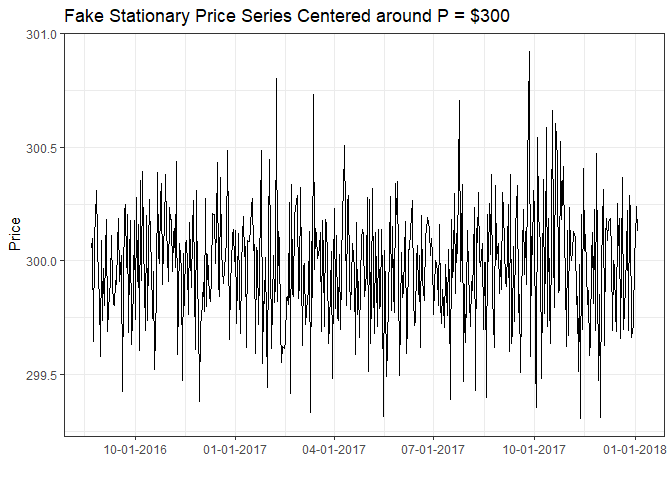
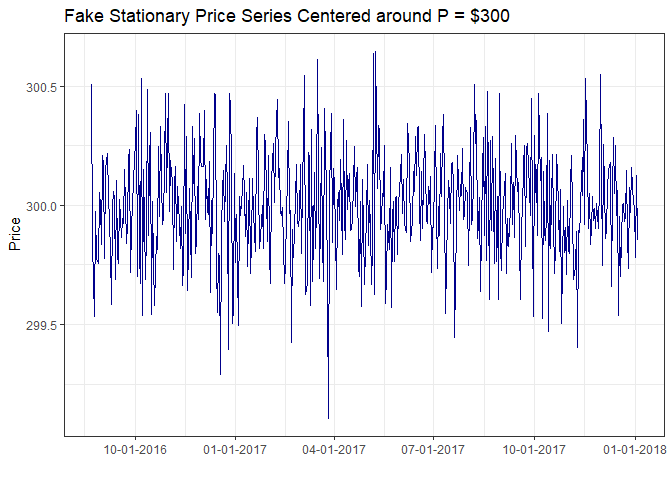
g

diff --git a/2018-01-02-Time-Series-Explainer.html b/2018-01-02-Time-Series-Explainer.html
@@ -127,7 +127,7 @@ $(document).ready(function () {
 -->
 <p>Nearly all of my research can be described as applied time-series econometrics. When graduate students approach me hoping to start research in this area, they usually have to start from ground zero in terms of their time-series statistical training. Even incoming graduate students well trained in econometrics often have seen little, if any, treatment of time-series techniques because first and even second econometrics courses focus most of their time on cross-sectional and panel techniques.</p>
 <p>For the graduate student aspiring to do a (Ph.D.) dissertation or (M.S.) thesis in price analysis this is a real bummer because it often will be 6 to 18 months before they can work a formal time series econometrics course into their schedule, severely delaying their research unless they can learn a lot on their own.</p>
-<p>This post is for my current and future new-ish graduate students who will soon start a research program in applied price analysis or finance, but feel overwhelmed and under-prepared in the way of time-series econometrics. I’m not going to cover the actual statistics, I link to resources for how you can start to learn more on your own at the bottom, but in this post I will give a 30,000 ft view of ‘The Game’ that is going on in applied time-series analysis. It follows a fairly standard template.</p>
+<p>This post is for my current and future new-ish graduate students who will soon start a research program in applied price analysis or finance, but feel overwhelmed and under-prepared in the way of time-series econometrics. It is also accessible to anyone who has had a basic class in statistics. I’m not going to cover how to use the actual statistics, I link to resources for how you can start to learn more on your own at the bottom, but in this post I will give a 30,000 ft view of ‘The Game’ that is going on in applied time-series analysis. It follows a fairly standard template.</p>
 <div id="the-game" class="section level1">
 <h1>The Game</h1>
 <p>When you start a time-series class or read a paper using time-series analyisis for the first time you are greeted by a barage of new statistical tests and terms like, “Augmented Dickey-Fuller Test”, “Johansen’s Cointegration Test”, “AR(p)”, “GARCH(p,q)”, “Vector Autoregression (VAR)” and “Vector Error Correction Model (VECM)” to name a few.</p>
@@ -139,32 +139,19 @@ $(document).ready(function () {
 <li><p>Adjusting for Residuals that may not be Perfect “White Noise”</p></li>
 </ul>
 <p>Each of these can be thought of as a model selection exercise, helping you to pick witch statistical model is the right choice for your research question. After a while you will have an intuition about which model to use on which kind of data; even then you have to go through this process in every research project to convince your reader that you did, in fact, choose a suitible model for the question at hand.</p>
-<p>If you are new to this you don’t have any intuition about what the right model is for your question, but going through these three issues will lead you there anyway.</p>
+<p>If you are new to this you probably don’t have any intuition about what the right model is for your question, but going through these three issues will lead you there anyway.</p>
 <div id="stationarity-testing" class="section level3">
 <h3>Stationarity Testing</h3>
-<p>The first thing you have to establish in any time-series analysis is whether your data are stationary or not because it essentially determines whether you should try to model levels of the data or first differences of the data. Let me explain more.</p>
-<p>In the figure below I simulate and plot a stationary series. Notice that it is basically flat, with random ups and downs.</p>
-<pre class="r"><code>library(ggplot2)
-library(xts)
-
-# Making the fake price series
-## Dates
-end     &lt;- Sys.Date()
-start   &lt;- end - 499 
-t       &lt;- as.Date(start:end)
-
-## 500 fake prices from a normal distribution
-x       &lt;- rnorm(n = 500, mean = 300, sd = .25)
-
-## Put dates and prices together in a time-series object
-p       &lt;- as.xts(x, order.by = t)
-
-# Plot It
-autoplot(p, geom = 'line') + 
-  labs(title = &quot;Fake Stationary Price Series Centered around P = $300&quot;, x = &quot;&quot;, y = &quot;Price&quot;) + 
-  theme_bw() + 
-  scale_x_date(date_labels = &quot;%m-%d-%Y&quot;, date_breaks = &quot;3 month&quot;)</code></pre>
[1 lines of base64/hex data omitted]
+<p>The first thing you have to establish in any time-series analysis is whether your data are stationary or not because it essentially determines whether you should try to model levels of the data or first differences of the data.</p>
+<p>If you want to see the R code that generates any of the following stuff, visit <a href="https://github.com/mindymallory/BlogPosts/blob/master/2018-01-02-Time-Series-Explainer.Rmd">my Github repostory</a> that has the source code for this blog post.</p>
+<p><strong>Stationary Data</strong></p>
+<p>In the figure below I simulate and plot a stationary series. The series comes from 500 draws of a normal distribution with mean = 300 and standard deviation = 0.25. Notice that it is basically flat, with random ups and downs.</p>
+<p>That is basically what stationarity means, all the data come from a single probability distribution.</p>
[1 lines of base64/hex data omitted]
+<p>When you look at this plot it is not hard to imagine that it came from draws from a single probability distribution, namely:</p>
+<p><span class="math display">\[p_t \sim N(\mu = 300, \sigma = .25)\]</span></p>
+<p>We need our data to be stationary in order to be able to do statistical tests and modelling on it. So if the data is not stationary, we have to transform it so it is and do our analysis on the transformed variable. The next sub-section should explain why.</p>
+<p><strong>Non-Stationary or Unit Root Data</strong></p>
 <p>In the plot below I plot the S&amp;P 500 Index from 1990 to 2017. By visual inspection you should have a sense that this series is</p>
 </div>
 </div>

diff --git a/2018-01-02-Time-Series-Explainer.md b/2018-01-02-Time-Series-Explainer.md
@@ -14,7 +14,7 @@ Nearly all of my research can be described as applied time-series econometrics. 
 
 For the graduate student aspiring to do a (Ph.D.) dissertation or (M.S.) thesis in price analysis this is a real bummer because it often will be 6 to 18 months before they can work a formal time series econometrics course into their schedule, severely delaying their research unless they can learn a lot on their own. 
 
-This post is for my current and future new-ish graduate students who will soon start a research program in applied price analysis or finance, but feel overwhelmed and under-prepared in the way of time-series econometrics. I'm not going to cover the actual statistics, I link to resources for how you can start to learn more on your own at the bottom, but in this post I will give a 30,000 ft view of 'The Game' that is going on in applied time-series analysis. It follows a fairly standard template. 
+This post is for my current and future new-ish graduate students who will soon start a research program in applied price analysis or finance, but feel overwhelmed and under-prepared in the way of time-series econometrics. It is also accessible to anyone who has had a basic class in statistics. I'm not going to cover how to use the actual statistics, I link to resources for how you can start to learn more on your own at the bottom, but in this post I will give a 30,000 ft view of 'The Game' that is going on in applied time-series analysis. It follows a fairly standard template. 
 
 # The Game
 
@@ -32,39 +32,29 @@ Most introductory time-series econometric statistics and models are utilized tow
 
 Each of these can be thought of as a model selection exercise, helping you to pick witch statistical model is the right choice for your research question. After a while you will have an intuition about which model to use on which kind of data; even then you have to go through this process in every research project to convince your reader that you did, in fact, choose a suitible model for the question at hand. 
 
-If you are new to this you don't have any intuition about what the right model is for your question, but going through these three issues will lead you there anyway. 
+If you are new to this you probably don't have any intuition about what the right model is for your question, but going through these three issues will lead you there anyway. 
 
 ### Stationarity Testing
 
-The first thing you have to establish in any time-series analysis is whether your data are stationary or not because it essentially determines whether you should try to model levels of the data or first differences of the data. Let me explain more. 
+The first thing you have to establish in any time-series analysis is whether your data are stationary or not because it essentially determines whether you should try to model levels of the data or first differences of the data. 
 
-In the figure below I simulate and plot a stationary series. Notice that it is basically flat, with random ups and downs. 
+If you want to see the R code that generates any of the following stuff, visit [my Github repostory](https://github.com/mindymallory/BlogPosts/blob/master/2018-01-02-Time-Series-Explainer.Rmd) that has the source code for this blog post.  
 
+**Stationary Data**
 
-```r
-library(ggplot2)
-library(xts)
+In the figure below I simulate and plot a stationary series. The series comes from 500 draws of a normal distribution with mean = 300 and standard deviation = 0.25. Notice that it is basically flat, with random ups and downs. 
 
-# Making the fake price series
-## Dates
-end     <- Sys.Date()
-start   <- end - 499 
-t       <- as.Date(start:end)
-
-## 500 fake prices from a normal distribution
-x       <- rnorm(n = 500, mean = 300, sd = .25)
-
-## Put dates and prices together in a time-series object
-p       <- as.xts(x, order.by = t)
-
-# Plot It
-autoplot(p, geom = 'line') + 
-  labs(title = "Fake Stationary Price Series Centered around P = $300", x = "", y = "Price") + 
-  theme_bw() + 
-  scale_x_date(date_labels = "%m-%d-%Y", date_breaks = "3 month")
-```
+That is basically what stationarity means, all the data come from a single probability distribution. 
 
 ![](2018-01-02-Time-Series-Explainer_files/figure-html/unnamed-chunk-2-1.png)<!-- -->
+
+When you look at this plot it is not hard to imagine that it came from draws from a single probability distribution, namely:
+
+$$p_t \sim N(\mu = 300, \sigma = .25)$$
+
+We need our data to be stationary in order to be able to do statistical tests and modelling on it. So if the data is not stationary, we have to transform it so it is and do our analysis on the transformed variable. The next sub-section should explain why. 
+
+**Non-Stationary or Unit Root Data**
 
 In the plot below I plot the S&P 500 Index from 1990 to 2017. By visual inspection you should have a sense that this series is 
 
